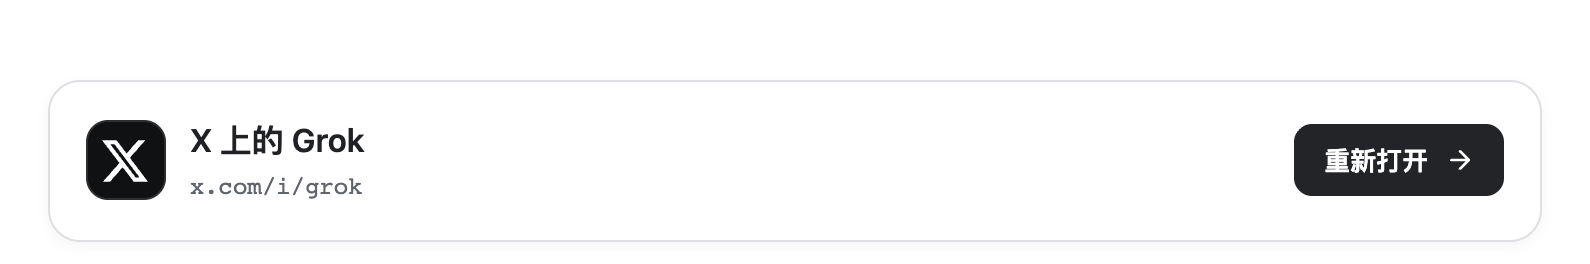
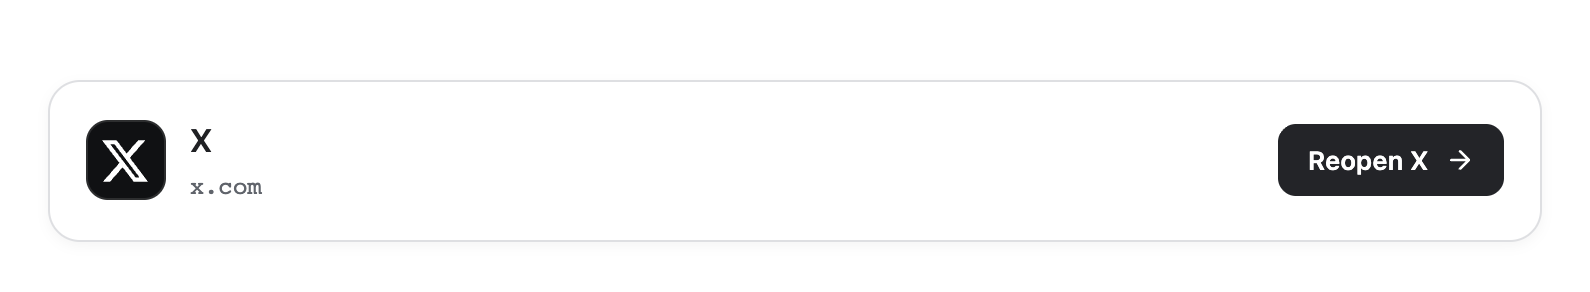
Open the X homepage and align launcher identity and English copy

diff --git a/plugins/x-launcher/launcher.js b/plugins/x-launcher/launcher.js
@@ -25,16 +25,16 @@ async function reveal() {
   clearTimeout(retryTimer);
   button.hidden = false;
   button.disabled = true;
-  buttonLabel.textContent = "正在打开…";
+  buttonLabel.textContent = "Opening…";
   status.textContent = "";
   try {
-    const result = await app.callServerTool({ name: "show_grok_browser", arguments: {} });
-    if (result.isError) throw new Error("open failed");
-    buttonLabel.textContent = "重新打开";
+    const result = await app.callServerTool({ name: "open_x_in_browser", arguments: {} });
+    if (result.isError) throw new Error("Could not open X");
+    buttonLabel.textContent = "Reopen X";
     retryTimer = setTimeout(() => { button.disabled = false; }, 6000);
   } catch {
-    status.textContent = "未能在 Codex 浏览器中打开 Grok，请重试。";
-    buttonLabel.textContent = "重试";
+    status.textContent = "Could not open X in Codex. Try again.";
+    buttonLabel.textContent = "Retry";
     button.disabled = false;
   } finally {
     opening = false;
@@ -45,7 +45,7 @@ async function reveal() {
 app.ontoolresult = result => {
   if (result.isError) {
     button.hidden = true;
-    status.textContent = "请点击 Codex 左侧栏的「X」，重新打开 Grok。";
+    status.textContent = "Select X in the Codex sidebar to try again.";
     return;
   }
   activation = result.structuredContent?.activation ?? "current-mount";
@@ -68,5 +68,5 @@ app.connect().then(() => {
   void reveal();
 }).catch(() => {
   button.hidden = true;
-  status.textContent = "未能连接到 Codex。请重新点击左侧栏的「X」。";
+  status.textContent = "Could not connect to Codex. Select X in the sidebar to reconnect.";
 });

diff --git a/plugins/x-launcher/launcher.html b/plugins/x-launcher/launcher.html
@@ -1,5 +1,5 @@
 <!doctype html>
-<html lang="zh-CN">
+<html lang="en">
 <head>
   <meta charset="utf-8">
   <meta name="viewport" content="width=device-width,initial-scale=1">
@@ -7,7 +7,7 @@
   <style>
     :root {
       color-scheme: light dark;
-      font-family: -apple-system, BlinkMacSystemFont, "PingFang SC", sans-serif;
+      font-family: -apple-system, BlinkMacSystemFont, system-ui, sans-serif;
       --surface: light-dark(#fff, #222325);
       --ink: light-dark(#202124, #f4f4f5);
       --muted: light-dark(#60646b, #b3b4bb);
@@ -61,12 +61,12 @@
           </svg>
         </span>
         <div>
-          <h1 id="destination">X 上的 Grok</h1>
-          <p class="address">x.com/i/grok</p>
+          <h1 id="destination">X</h1>
+          <p class="address">x.com</p>
         </div>
       </div>
       <button type="button" disabled aria-describedby="destination">
-        <span>正在打开…</span>
+        <span>Opening…</span>
         <svg aria-hidden="true" width="14" height="14" viewBox="0 0 16 16" fill="none" stroke="currentColor" stroke-width="1.5" stroke-linecap="round" stroke-linejoin="round">
           <path d="M3 8h10m-5-5 5 5-5 5"/>
         </svg>

diff --git a/README.md b/README.md
@@ -1,12 +1,12 @@
 # Codex X Launcher
 
-在 macOS 版 Codex 的左侧栏加一个 **X** 入口。点击后，[X 上的 Grok](https://x.com/i/grok) 会在 Codex 内置浏览器中打开，可以和当前对话并排使用。
+Open [X](https://x.com/) from the sidebar of the Codex desktop app on macOS. The launcher opens the X homepage in the built-in browser, so you can use X alongside your conversation.
 
-![Codex 中的 Grok 入口卡片，左侧显示 X 图标与目标网址，右侧提供「重新打开」按钮](docs/launcher.png)
+![X launcher card showing x.com and the Reopen X button](docs/launcher.png)
 
-## 快速开始
+## Installation
 
-需要 macOS、支持内置浏览器和插件的 Codex 桌面版，以及 Node.js 22 或更高版本和 npm。终端里的 `codex plugin --help` 应能列出 `add` 和 `marketplace`。
+You need macOS, Node.js 22 or later with npm, and a version of Codex that supports sidebar plugins and the in-app browser. Run `codex plugin --help` to check that your CLI includes the `add` and `marketplace` commands.
 
 ```sh
 git clone https://github.com/yuanxiangxie/codex-x-launcher.git
@@ -14,15 +14,32 @@ cd codex-x-launcher
 npm ci
 npm run build
 codex plugin marketplace add "$PWD"
-codex plugin add ai-consult@local-ai-consult
+codex plugin add x-launcher@codex-x-launcher
 ```
 
-打开 Codex，点击左侧栏的 **X**。首次使用时，如果 Grok 要求登录，直接在打开的 X 页面完成登录即可。请保留克隆目录，Codex 将它用作本地插件市场。
+Keep the cloned directory in place. Codex uses it as the local plugin marketplace.
 
 <details>
-<summary>终端找不到 <code>codex plugin</code>？</summary>
+<summary>Moving from the 1.x plugin</summary>
 
-如果桌面应用安装在 `/Applications/ChatGPT.app`，可先在当前终端运行下面这行，使用应用随附的 CLI，再执行上面的两条 `codex plugin` 命令。
+Version 2 opens the X homepage and uses a new plugin ID. In the existing checkout, remove the old registration, update the source, and install the new entry.
+
+```sh
+codex plugin remove ai-consult@local-ai-consult
+codex plugin marketplace remove local-ai-consult
+git pull --ff-only
+npm ci
+npm run build
+codex plugin marketplace add "$PWD"
+codex plugin add x-launcher@codex-x-launcher
+```
+
+</details>
+
+<details>
+<summary>My terminal does not recognize <code>codex plugin</code></summary>
+
+If your desktop app is installed at `/Applications/ChatGPT.app` and includes the bundled CLI at the path below, run this in the current shell, then repeat the plugin commands.
 
 ```sh
 codex() { "/Applications/ChatGPT.app/Contents/Resources/codex-cli/bin/codex" "$@"; }
@@ -30,44 +47,48 @@ codex() { "/Applications/ChatGPT.app/Contents/Resources/codex-cli/bin/codex" "$@
 
 </details>
 
-## 使用
+## Usage
 
-- **重新打开网页**　关闭 Grok 标签后，点击卡片上的「重新打开」。如果打开失败，点击「重试」。
-- **展开浏览器**　在浏览器工具栏选择 **Enter full view**，选择 **Exit full view** 可返回分屏。如果悬浮聊天框遮住网页，可在 **⋯** 菜单中选择 **Hide composer**。
+Select **X** in the Codex sidebar. When the launcher becomes visible, it opens `https://x.com/`. If X asks you to sign in, complete that step on the website.
 
-## 更新与卸载
+- Select **Reopen X** on the card to open the homepage again. If the launch fails, select **Retry**.
+- Use **Enter full view** in the browser toolbar to expand the page, and **Exit full view** to return to split view. Where available, **Hide composer** in the **⋯** menu hides the floating chat input.
 
-在克隆目录中运行以下命令，获取最新源码并更新本机安装。
+## Updating
+
+From the checkout used for installation, run the following commands.
 
 ```sh
 git pull --ff-only
 npm ci
 npm run build
-codex plugin add ai-consult@local-ai-consult
+codex plugin add x-launcher@codex-x-launcher
 ```
 
-如果 Codex 仍显示旧卡片，重新载入窗口并再次点击 **X**。要卸载插件并移除本地市场，运行以下命令。
+Reload the Codex window if it still shows an earlier version of the card.
+
+## Uninstalling
 
 ```sh
-codex plugin remove ai-consult@local-ai-consult
-codex plugin marketplace remove local-ai-consult
+codex plugin remove x-launcher@codex-x-launcher
+codex plugin marketplace remove codex-x-launcher
 ```
 
-## 开发
+## Development
 
-插件通过本地 MCP 服务注册全局侧栏入口。卡片进入视口后才请求打开 Grok，避免 Codex 在后台预加载卡片时意外打开网页。服务通过 macOS 把目标网址交给 Codex，登录和网页交互都在内置浏览器中完成。
+The local MCP server registers the sidebar entry. The card waits until it is visible before asking the server to open X. On macOS the server passes a fixed browser link to Codex through Launch Services. Sign-in and browsing take place in the Codex browser.
 
-- **入口与导航**由 MCP 服务实现。[server.cjs](plugins/ai-consult/server.cjs)
-- **卡片样式与交互**分别在 HTML 模板和浏览器脚本中维护。[launcher.html](plugins/ai-consult/launcher.html) · [launcher.js](plugins/ai-consult/launcher.js)
+- Sidebar tools and macOS navigation are implemented in [server.cjs](plugins/x-launcher/server.cjs) and [open-x.cjs](plugins/x-launcher/open-x.cjs).
+- For card layout and interaction, see [launcher.html](plugins/x-launcher/launcher.html) and [launcher.js](plugins/x-launcher/launcher.js).
 
-修改源码后重新构建，再运行测试。
+After changing the source, rebuild and run the tests.
 
 ```sh
 npm run build
-npm test          # 验证侧栏入口、图标、卡片资源和激活事件
-npm run test:ui   # 使用本机 Google Chrome 验证布局、主题和键盘重试
+npm test          # Check the destination, sidebar registration, icon and activation
+npm run test:ui   # Test layout, theme changes and keyboard retry in local Google Chrome
 ```
 
-## 许可证
+## License
 
 [MIT](LICENSE)
